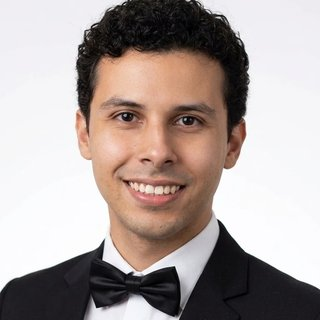
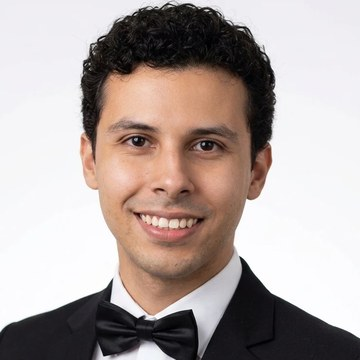
Foto do Gelado melhor enquadrada e bolinha maior
Claude-Session: https://claude.ai/code/session_01Vb9jCdZ8cmeMztXeSQkbhq

Changed region(s): [[0.0, 0.0, 1.0, 1.0], [0.5, 0.0625, 0.5312, 0.0938]]

diff --git a/public/index.html b/public/index.html
@@ -73,7 +73,7 @@
   @media (prefers-reduced-motion:reduce){.trilho{animation:none}.team{overflow-x:auto}}
   .member{background:var(--card);border:1px solid var(--line);border-radius:18px;padding:22px 18px;text-align:center;transition:transform .15s}
   .member:hover{transform:translateY(-3px)}
-  .av{width:92px;height:92px;border-radius:50%;margin:0 auto 14px;display:flex;align-items:center;justify-content:center;font-size:38px;font-weight:900;color:#fff;background-size:cover;background-position:center;position:relative}
+  .av{width:112px;height:112px;border-radius:50%;margin:0 auto 14px;display:flex;align-items:center;justify-content:center;font-size:38px;font-weight:900;color:#fff;background-size:cover;background-position:center;position:relative}
   .av::after{content:"";position:absolute;inset:-4px;border-radius:50%;padding:3px;background:var(--rainbow);-webkit-mask:linear-gradient(#000 0 0) content-box,linear-gradient(#000 0 0);-webkit-mask-composite:xor;mask:linear-gradient(#000 0 0) content-box exclude,linear-gradient(#000 0 0)}
   .member h4{font-size:18px}
   .member .role{font-size:12px;color:#c9a7ff;font-weight:700;margin-top:2px}

diff --git a/CLAUDE.md b/CLAUDE.md
@@ -67,6 +67,6 @@ Fundo escuro (#0d0c12), cores do arco-íris LGBT. O cabeçalho (`.snav`) é igua
 Home: arco-íris que desce serpenteando conforme o scroll e barra de progresso arco-íris no topo. O mouse é o normal: a varinha e o brilho foram removidos porque deixavam o site lento.
 
 ## Pendências
-- Fotos da galera: padrão terno preto + gravata borboleta + fundo branco (o dono gera numa IA de imagem). Salvar em `public/galera/<nome>.jpg` (320x320, recorte no rosto) e pôr no `foto`. Já tem: Gelado.
+- Fotos da galera: padrão terno preto + gravata borboleta + fundo branco (o dono gera numa IA de imagem). Salvar em `public/galera/<nome>.jpg` (360x360, rosto no centro com um respiro em cima e a gravata aparecendo embaixo) e pôr no `foto`. Já tem: Gelado.
 - Cloudinary do SimasTok: cloud `k4mjzxdz`, preset unsigned `nv5gv6px` (pasta simastok). Tem um vídeo de teste `simastok/emymgeykftu2cajkjiir` lá (não tá no feed).
 - (caixinha já começa aberta)
